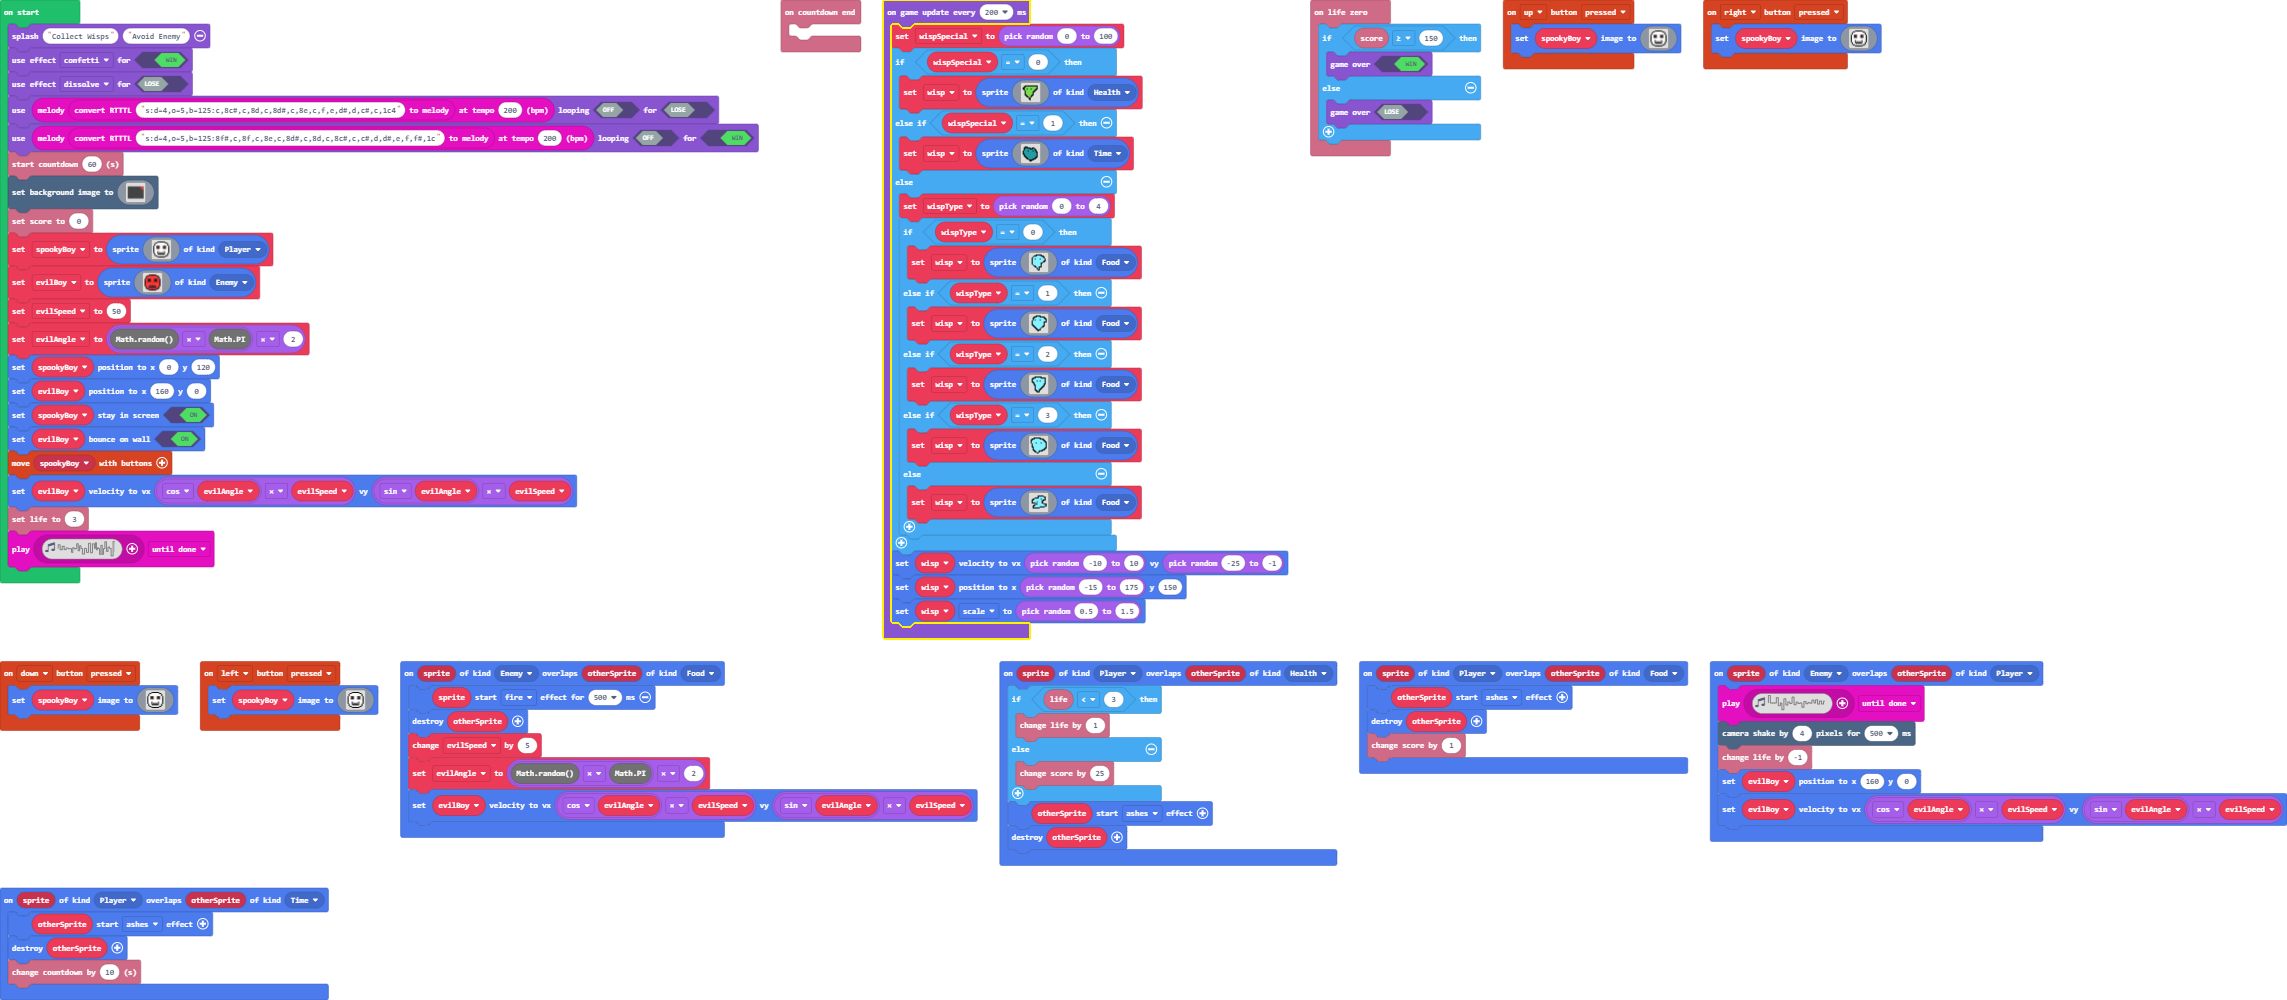
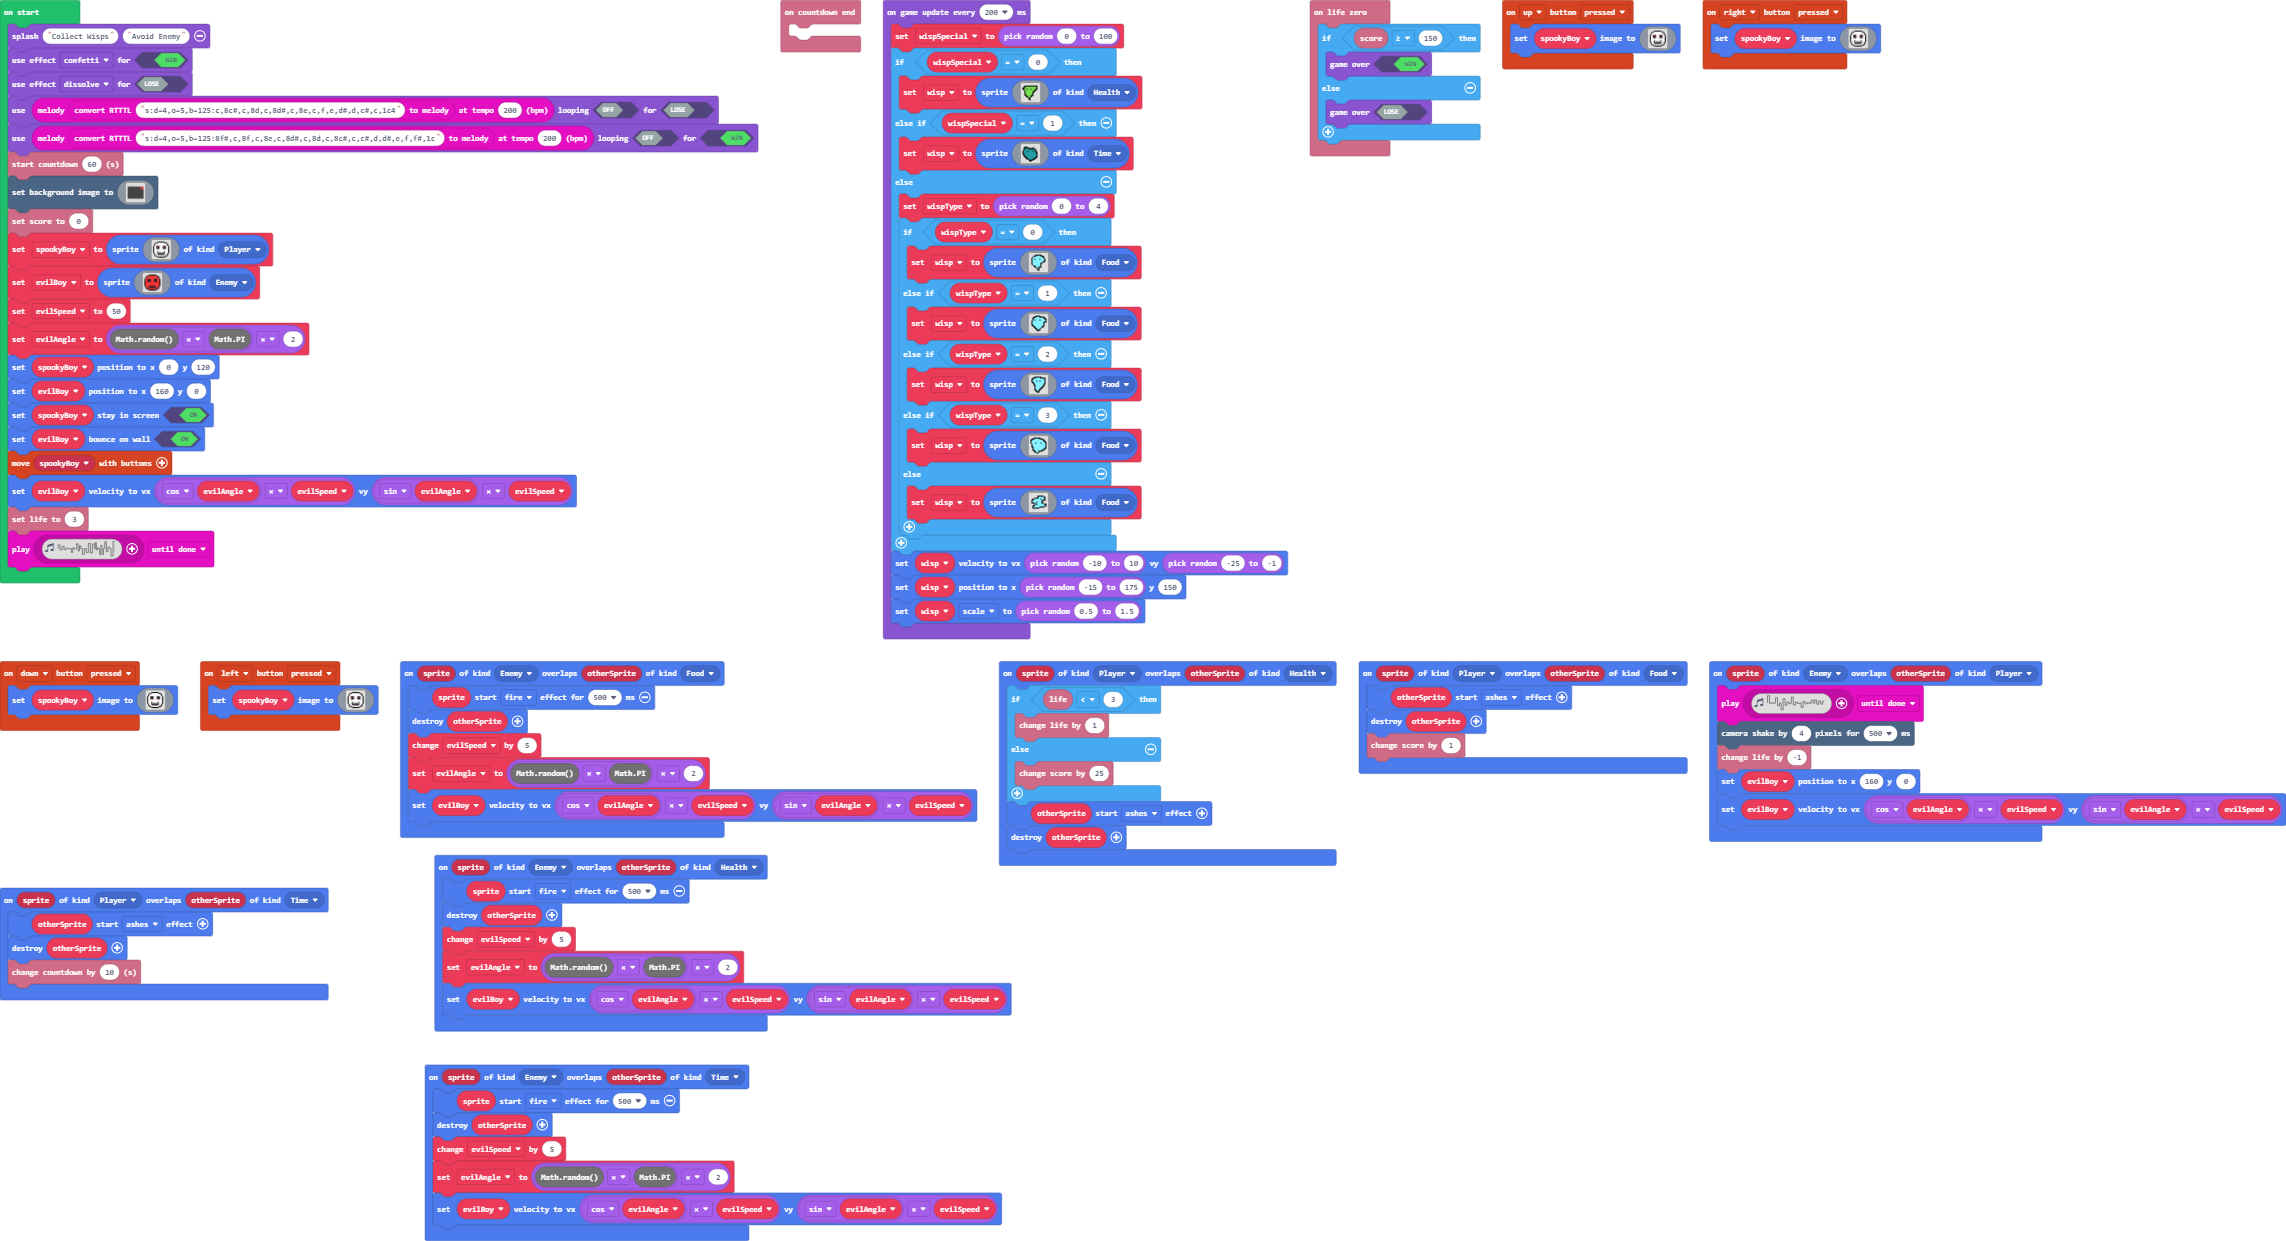
Update main.blocks, main.ts

diff --git a/main.ts b/main.ts
@@ -52,10 +52,24 @@ info.onLifeZero(function () {
         game.gameOver(false)
     }
 })
+sprites.onOverlap(SpriteKind.Enemy, SpriteKind.Health, function (sprite, otherSprite) {
+    sprite.startEffect(effects.fire, 500)
+    sprites.destroy(otherSprite)
+    evilSpeed += 5
+    evilAngle = Math.random() * Math.PI * 2
+    evilBoy.setVelocity(Math.cos(evilAngle) * evilSpeed, Math.sin(evilAngle) * evilSpeed)
+})
 sprites.onOverlap(SpriteKind.Player, SpriteKind.Food, function (sprite, otherSprite) {
     otherSprite.startEffect(effects.ashes)
     sprites.destroy(otherSprite)
     info.changeScoreBy(1)
+})
+sprites.onOverlap(SpriteKind.Enemy, SpriteKind.Time, function (sprite, otherSprite) {
+    sprite.startEffect(effects.fire, 500)
+    sprites.destroy(otherSprite)
+    evilSpeed += 5
+    evilAngle = Math.random() * Math.PI * 2
+    evilBoy.setVelocity(Math.cos(evilAngle) * evilSpeed, Math.sin(evilAngle) * evilSpeed)
 })
 let wispType = 0
 let wisp: Sprite = null
